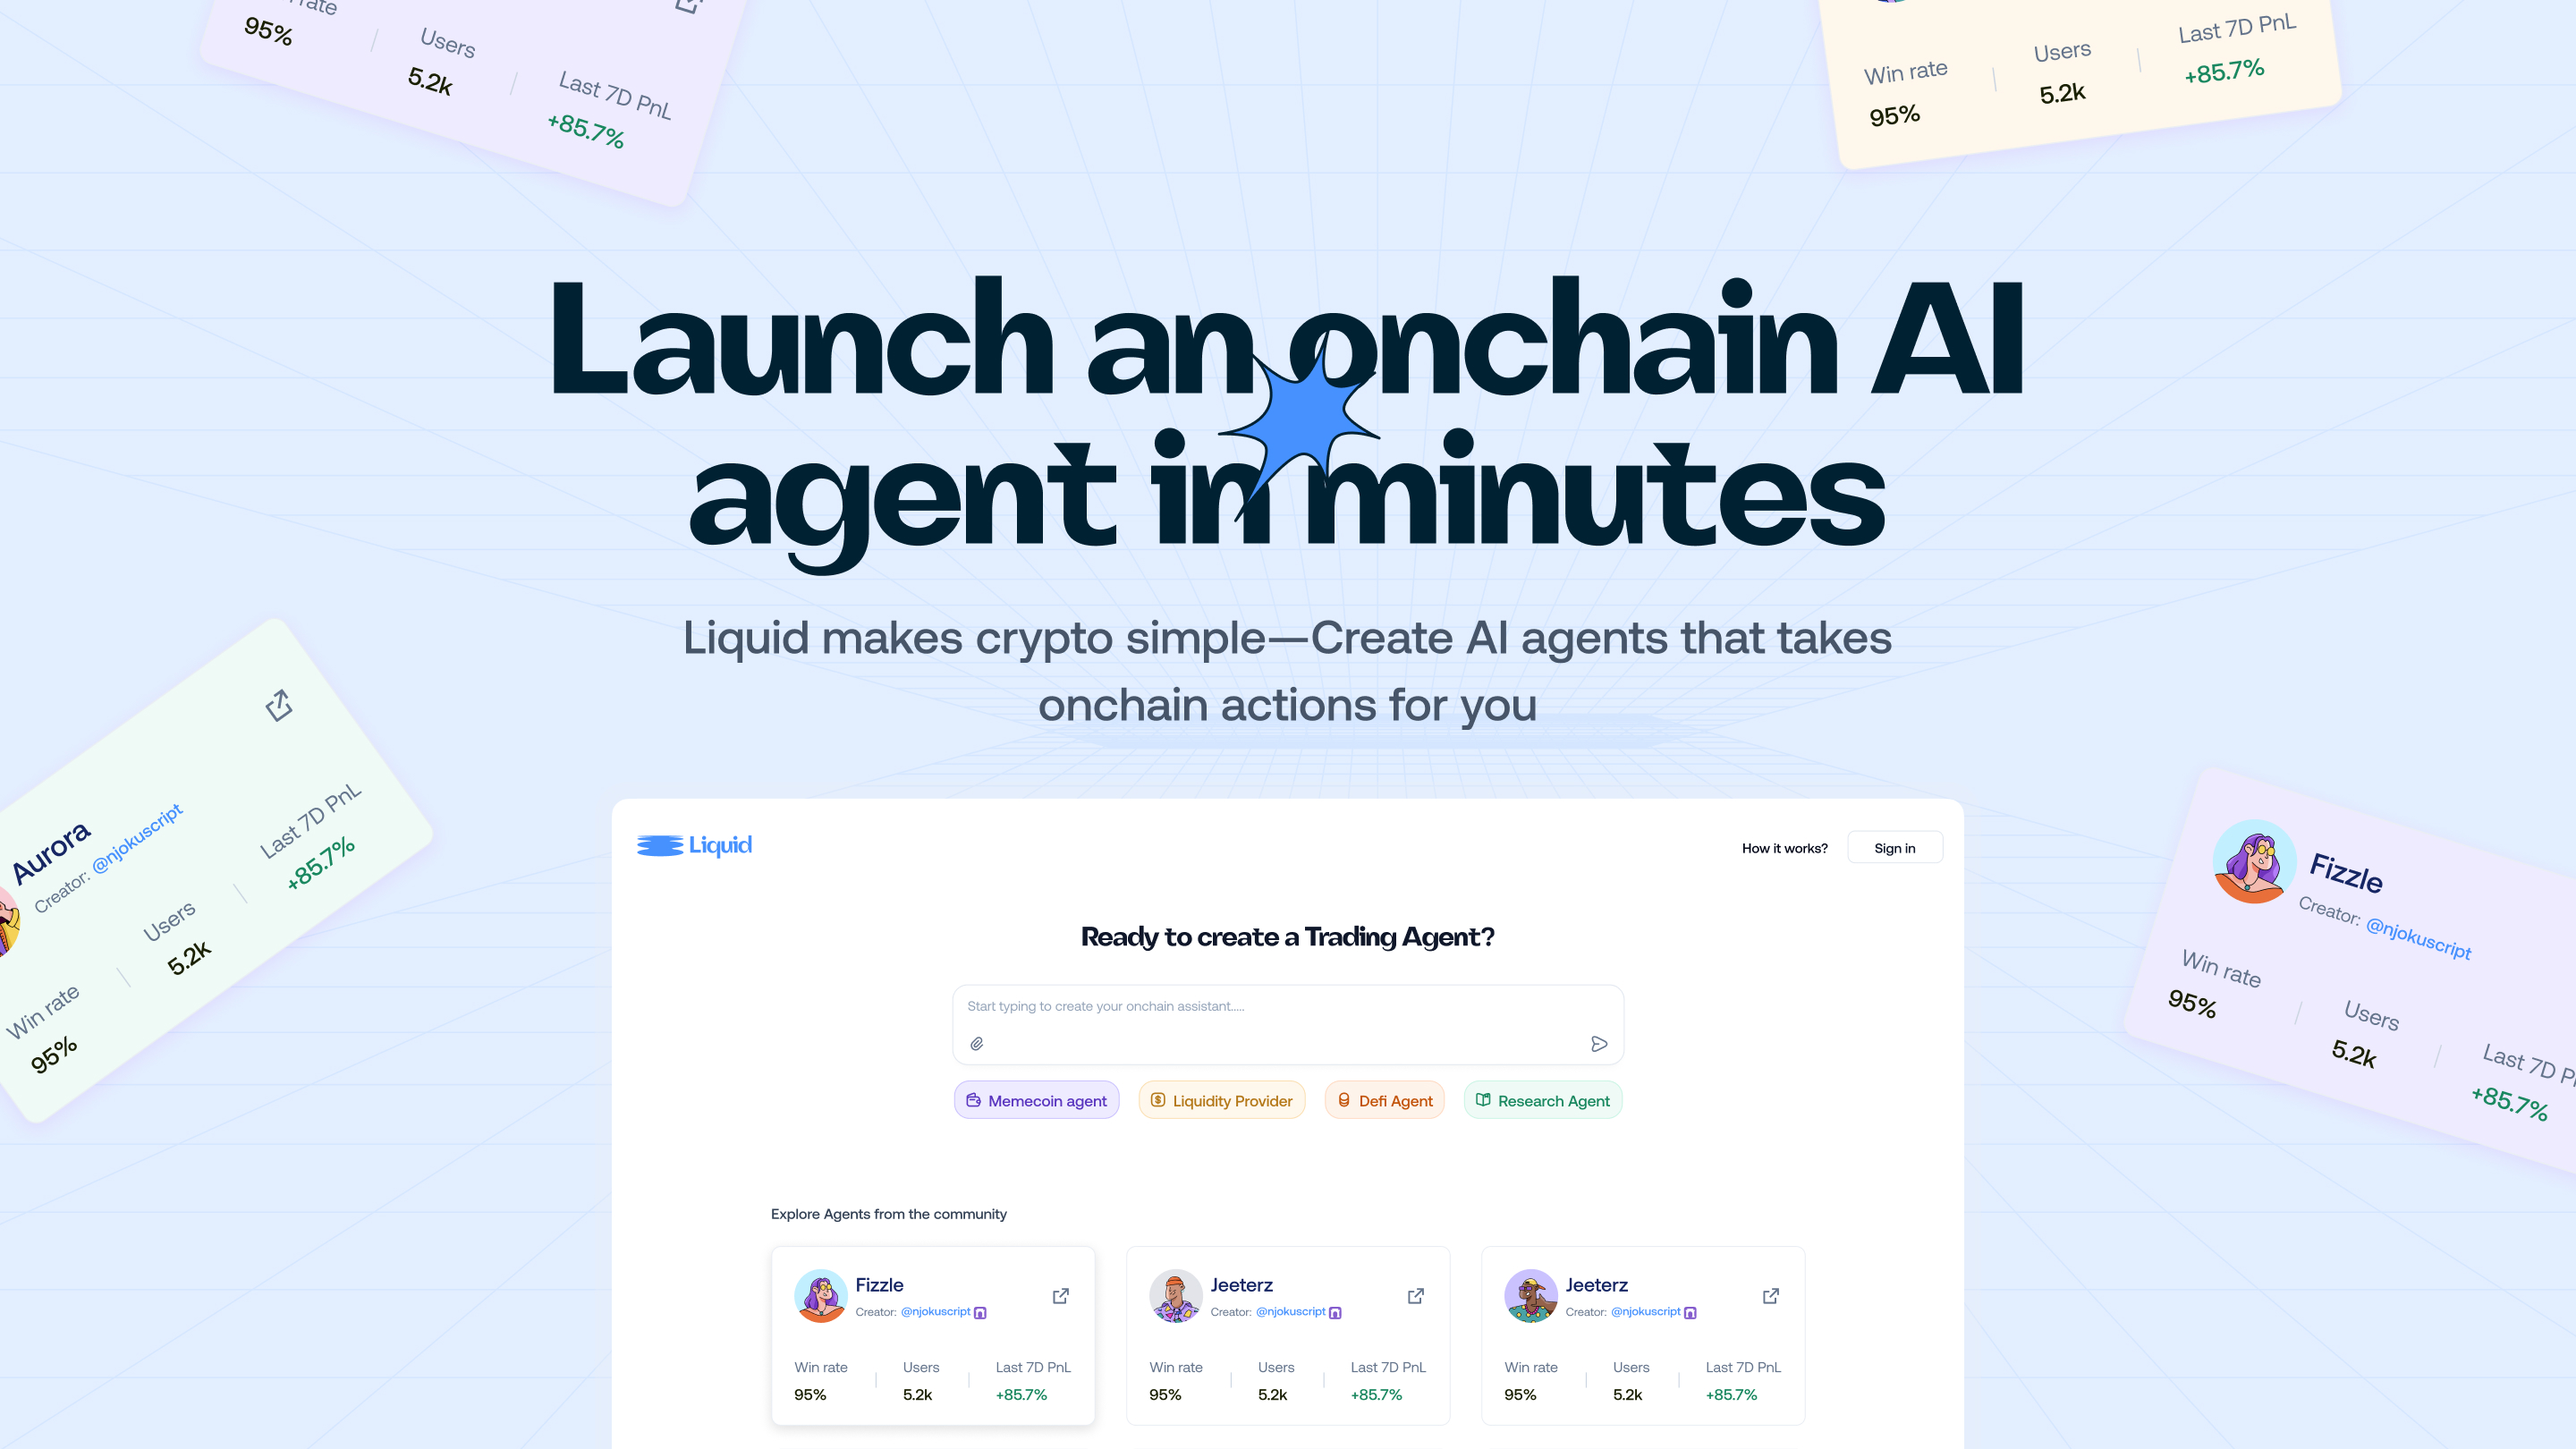
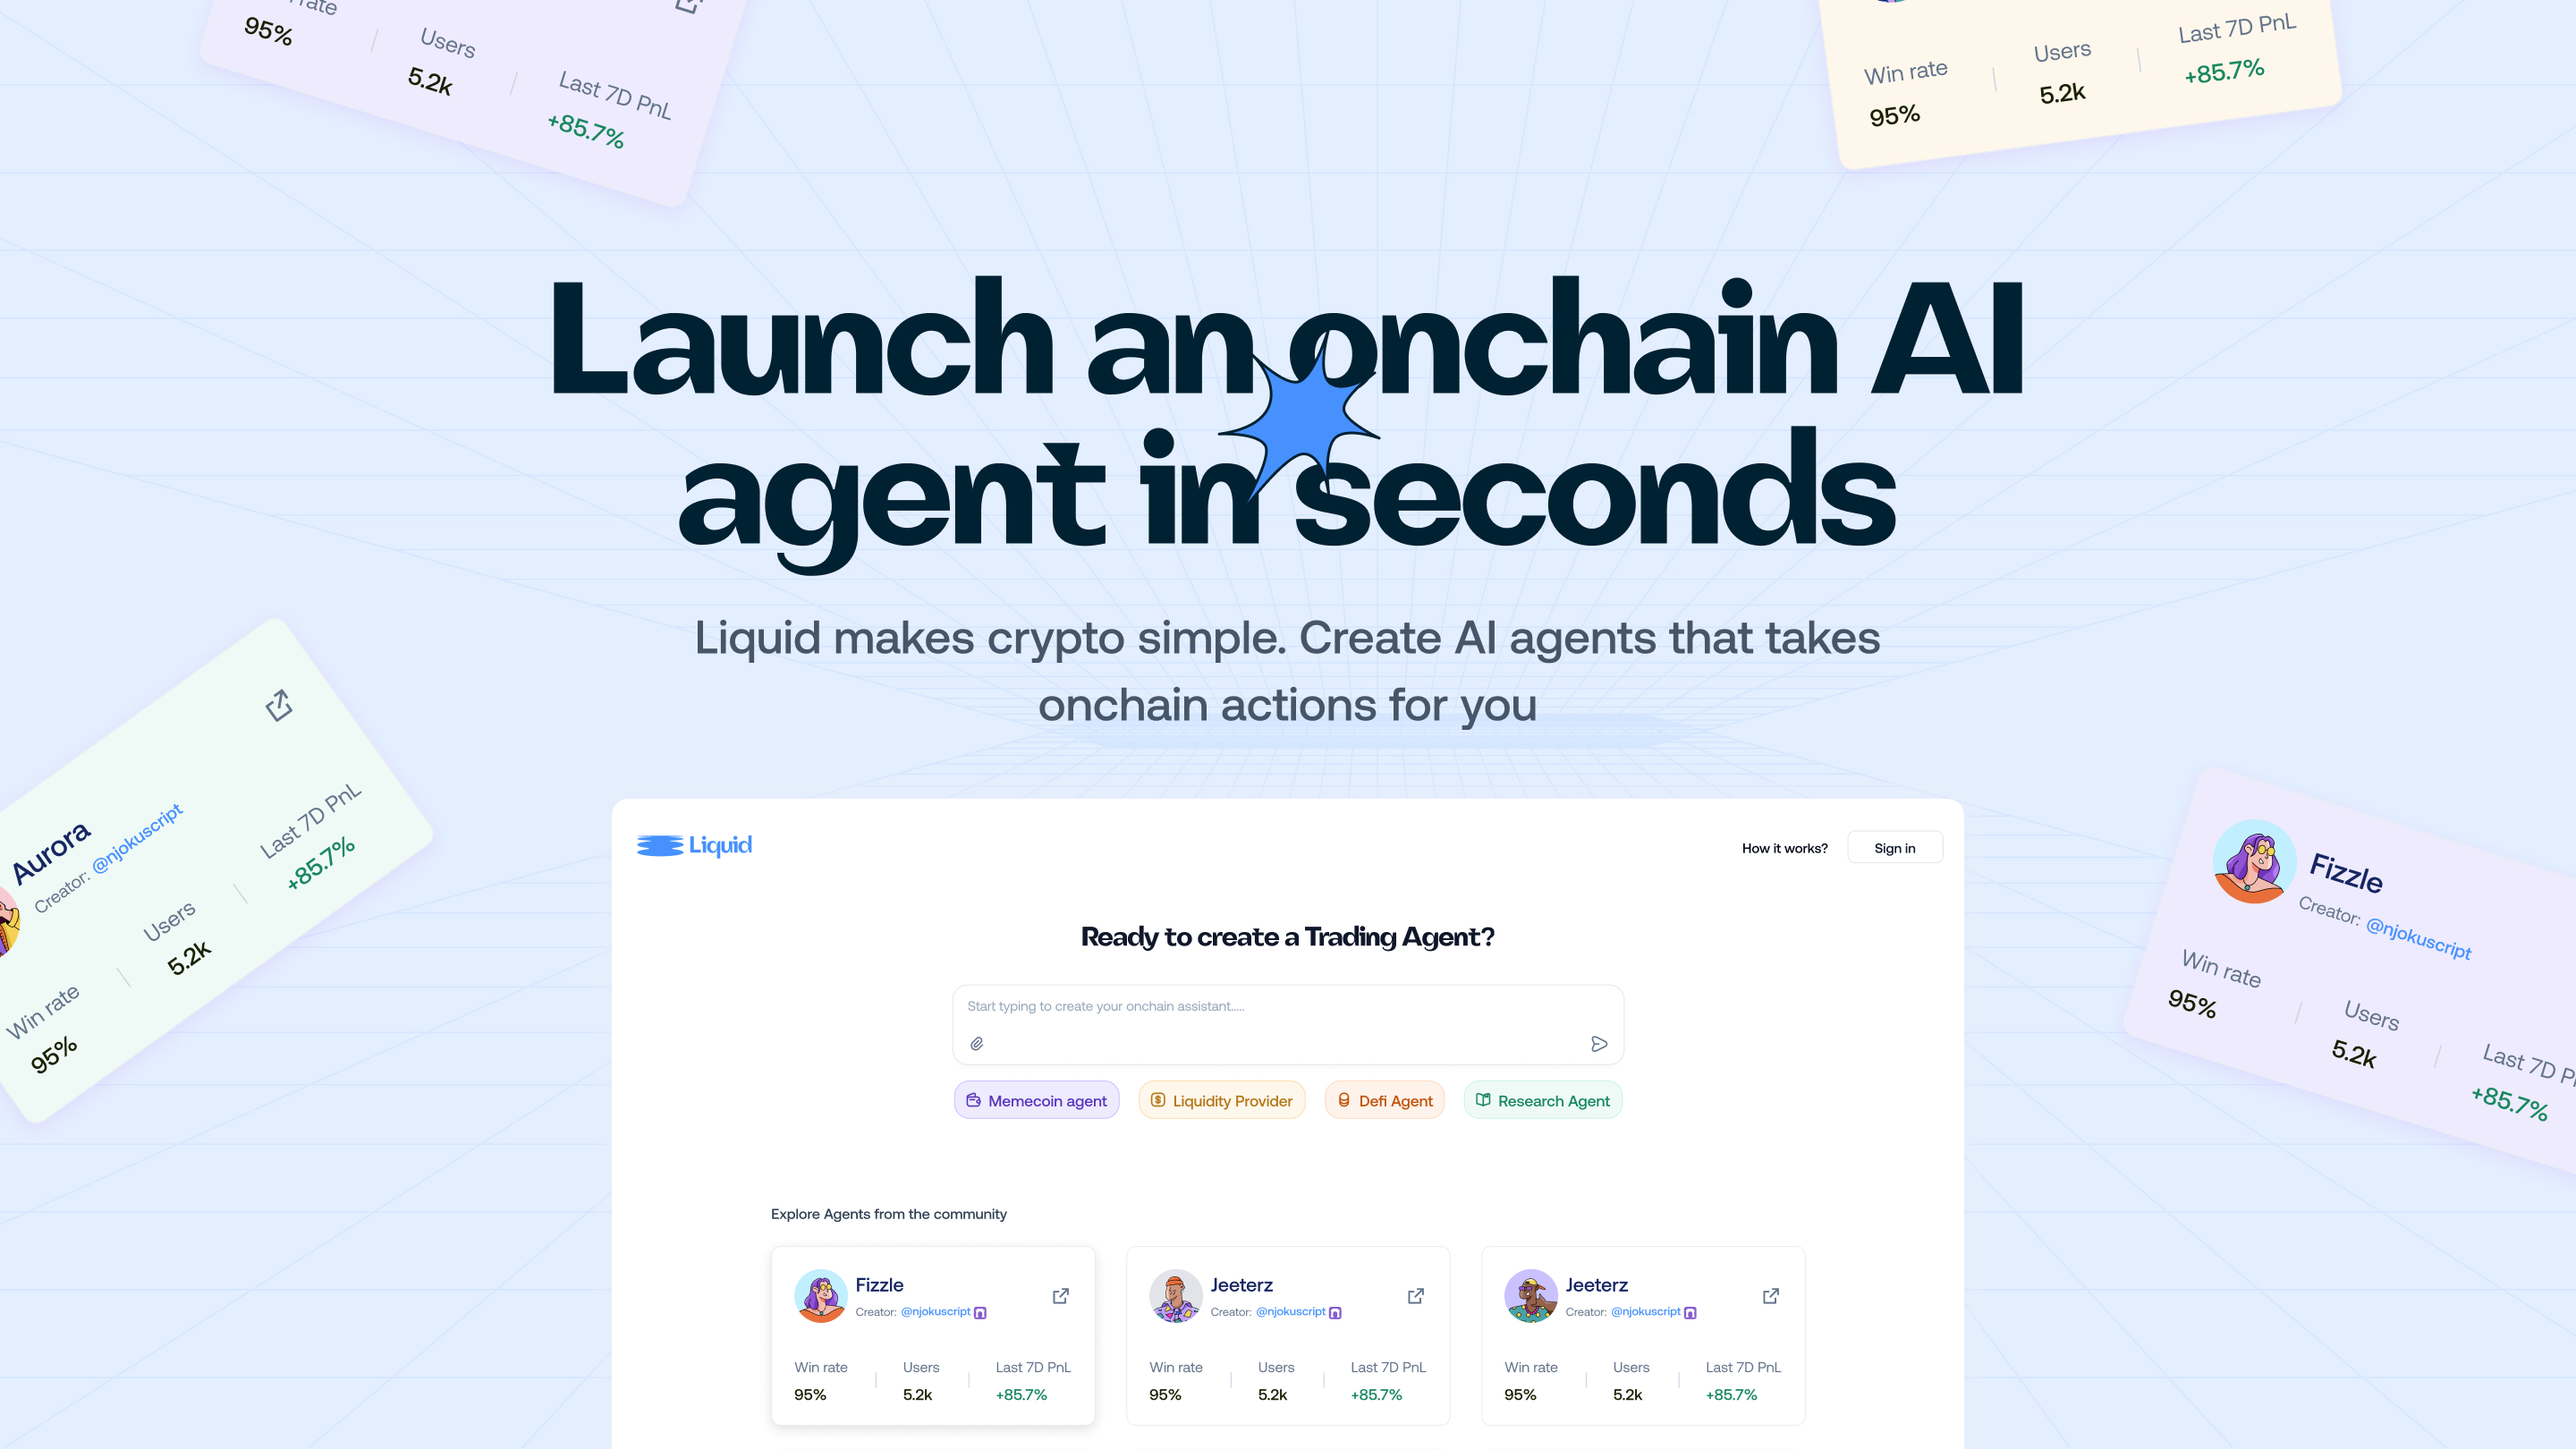
chore: update image

Changed region(s): [[0.25, 0.2778, 0.75, 0.4012], [0.25, 0.4321, 0.75, 0.463]]

diff --git a/app/layout.tsx b/app/layout.tsx
@@ -24,12 +24,12 @@ export const metadata: Metadata = {
   applicationName: "Liquid",
   openGraph: {
     title: "Launch an onchain AI agent in seconds",
-    description: "Liquid makes crypto simple. an AI agent that takes onchain actions for you.",
+    description: "Liquid makes crypto simple. Create AI agents that takes onchain actions for you.",
     url: "https://app.useliquid.xyz",
     type: "website",
     images: [
       {
-        url: "https://res.cloudinary.com/njokuscript/image/upload/v1740572700/Section_preview_2_u2yliq.png",
+        url: "https://app.useliquid.xyz/liquid_preview.jpg",
         width: 1200,
         height: 630,
       },
@@ -40,10 +40,10 @@ export const metadata: Metadata = {
     card: "summary_large_image",
     site: "https://app.useliquid.xyz",
     title: "Launch an onchain AI agent in seconds",
-    description: "Liquid makes crypto simple. an AI agent that takes onchain actions for you.",
+    description: "Liquid makes crypto simple. Create AI agents that takes onchain actions for you.",
     images: [
       {
-        url: "https://res.cloudinary.com/njokuscript/image/upload/v1740572700/Section_preview_2_u2yliq.png",
+        url: "https://app.useliquid.xyz/liquid_preview.jpg",
         width: 1200,
         height: 630,
       },
